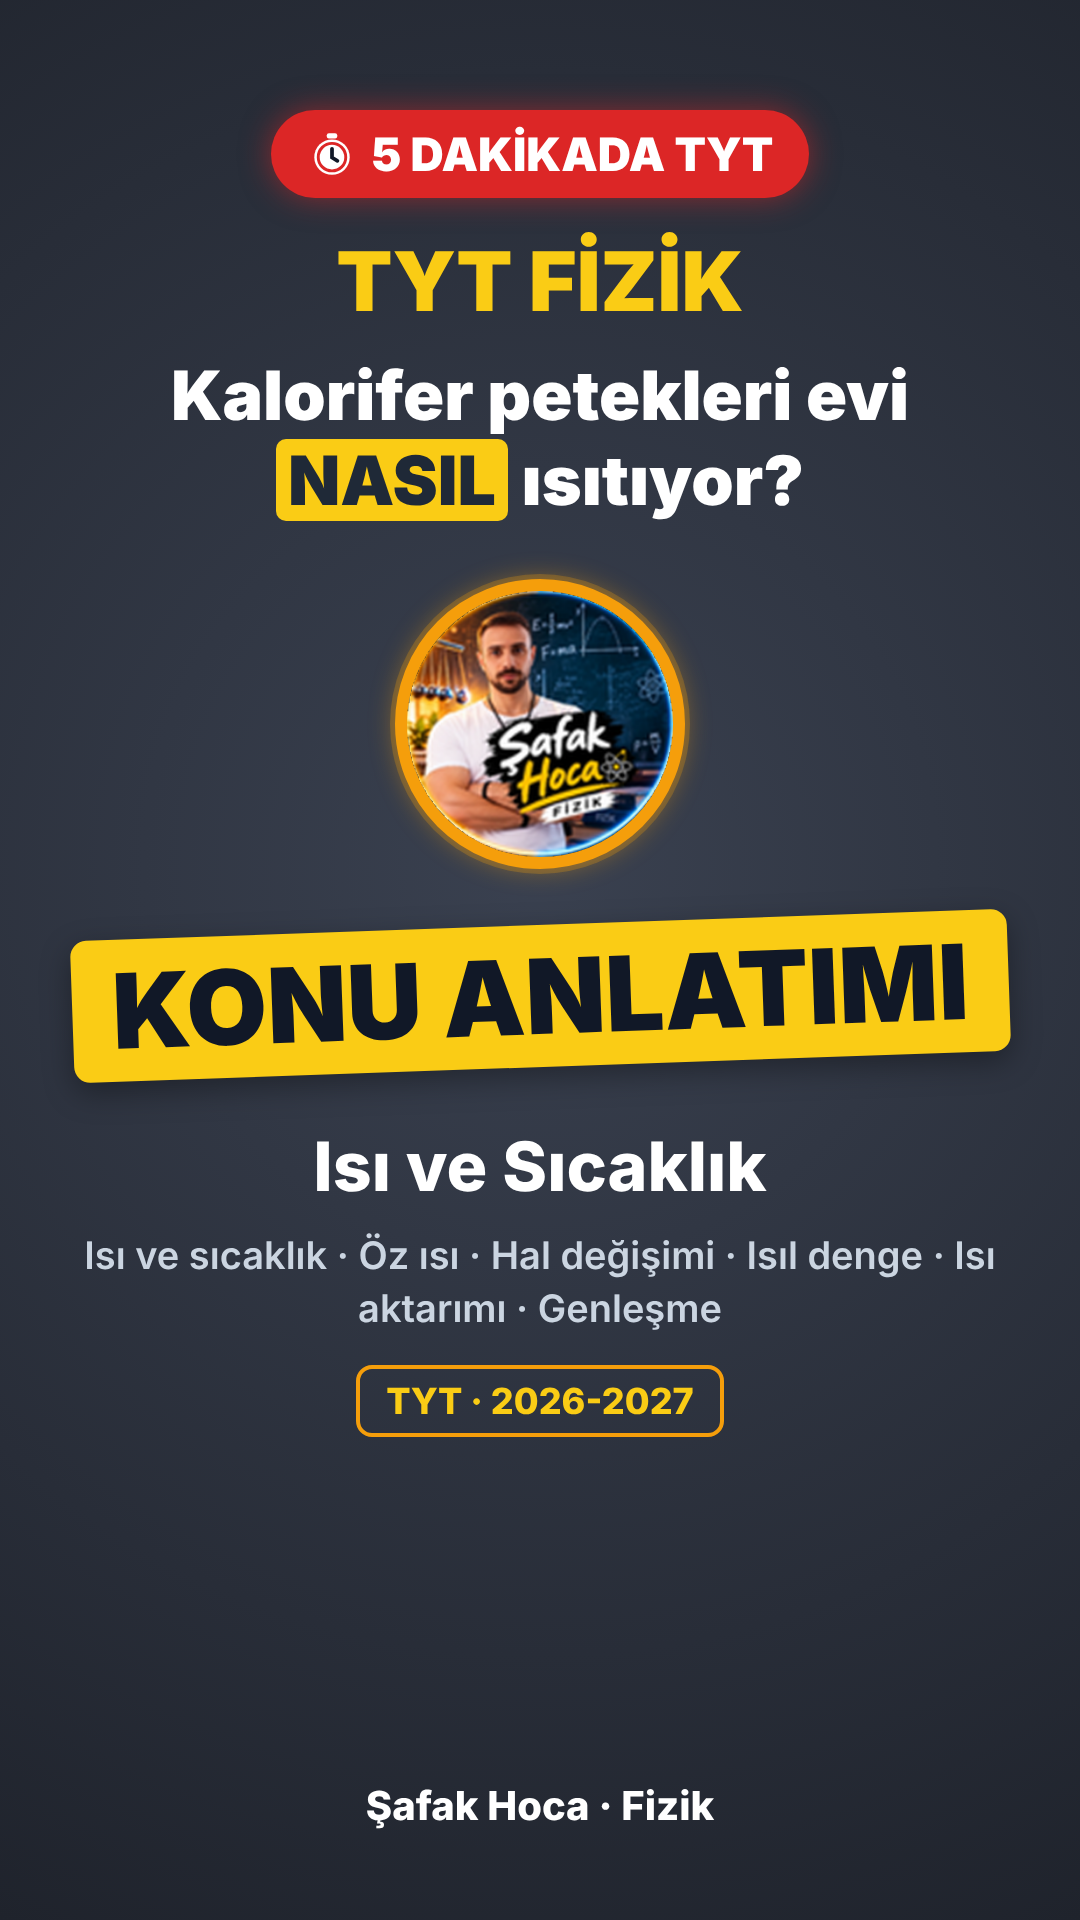
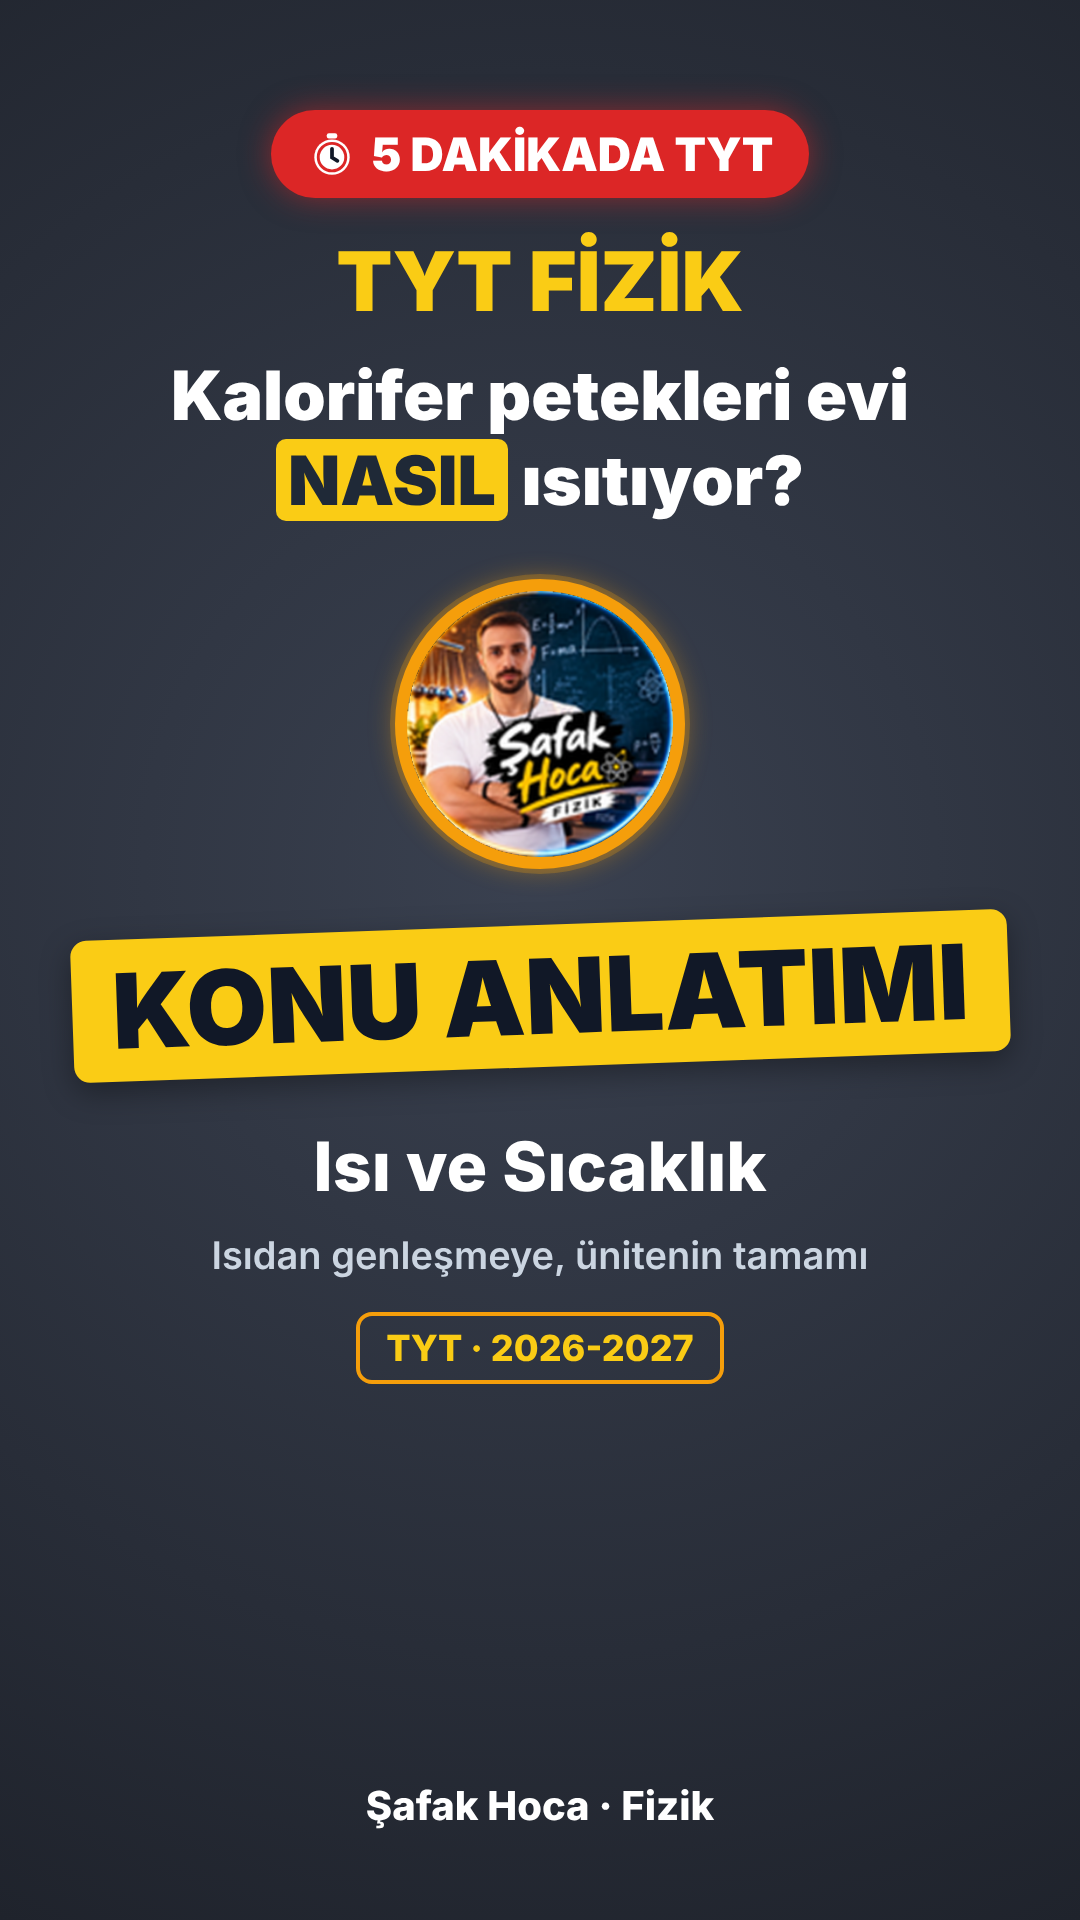
TYT Isı ve Sıcaklık: soru soru anlatım, MEB sırası, genleşme ile biter (8 bölüm)
Claude-Session: https://claude.ai/code/session_01Xc7NeVxuRXWQCx2wXCgMJt

diff --git a/tyt/konular/isi_sicaklik.html b/tyt/konular/isi_sicaklik.html
@@ -159,50 +159,75 @@
     <div class="logo-foto"></div>
     <div class="ka2">KONU ANLATIMI</div>
     <div class="konu2">Isı ve Sıcaklık</div>
-    <div class="ders2">Isı ve sıcaklık · Öz ısı · Hal değişimi · Isıl denge · Isı aktarımı · Genleşme</div>
+    <div class="ders2">Isıdan genleşmeye, ünitenin tamamı</div>
     <div class="kod2">TYT · 2026-2027</div>
   </div>
   <div class="kp2-imza">Şafak Hoca · Fizik</div>
 </section>
 
-<!-- ================= 3 · KONU 1: ISI, SICAKLIK, İÇ ENERJİ (0:13–0:48) ================= -->
-<section class="sahne" id="a1">
-  <div class="ust-kutu"><div class="u1">KONU 1 / 7</div><div class="u2">Isı, Sıcaklık ve İç Enerji</div></div>
+<!-- ================= 3 · BÖLÜM 1: Isı nedir? Sıcaklık nedir? Farkı ne? (0:13–0:48) ================= -->
+<section class="sahne" id="k1">
+  <div class="ust-kutu"><div class="u1 soru-u">Isı nedir? Sıcaklık nedir? Farkı ne?</div></div>
   <div class="pg">
     <div class="pg-bas"><div class="pb1">TYT FİZİK · KONU ANLATIMI</div><div class="pb2">ISI VE SICAKLIK · TYT · ŞAFAK HOCA</div><div class="logo-foto"></div></div>
-    <div class="pg-baslik">Isı ve Sıcaklık<span class="rozet">1/7</span></div>
+    <div class="pg-baslik">Isı ve Sıcaklık</div>
     <div class="pg-cizgi"></div>
-    <div class="pg-adim">KONU 1<span class="etk">ISI, SICAKLIK VE İÇ ENERJİ</span></div>
-    <p class="tanim"><span class="f">Sıcaklık</span>, taneciklerin <span class="v">ortalama</span> hareket enerjisinin göstergesidir. <span class="f">İç enerji</span>, taneciklerin <span class="v">toplam</span> enerjisidir. <span class="f">Isı</span>, sıcaklık farkı yüzünden <span class="v">aktarılan</span> enerjidir.</p>
-    <svg viewBox="0 0 980 300" width="100%" height="300">
-      <g font-weight="800" text-anchor="middle">
-        <rect x="20" y="20" width="440" height="230" rx="22" fill="#1f2430" stroke="#4b5563" stroke-width="3"/>
-        <text x="240" y="80" fill="#fff" font-size="40">Sıcaklık</text>
-        <text x="240" y="140" fill="#e5e7eb" font-size="32" font-weight="600">termometre ile</text>
-        <text x="240" y="190" fill="#e5e7eb" font-size="32" font-weight="600">°C · °F · K</text>
-        <text x="240" y="235" fill="#9ca3af" font-size="26" font-weight="600">(madde miktarına bağlı değil)</text>
-        <rect x="520" y="20" width="440" height="230" rx="22" fill="#1f2430" stroke="#4b5563" stroke-width="3"/>
-        <text x="740" y="80" fill="#fff" font-size="40">Isı (Q)</text>
-        <text x="740" y="140" fill="#e5e7eb" font-size="32" font-weight="600">kalorimetre kabı ile</text>
-        <text x="740" y="190" fill="#e5e7eb" font-size="32" font-weight="600">joule · kalori</text>
-        <text x="740" y="235" fill="#9ca3af" font-size="26" font-weight="600">(bir enerji türüdür)</text>
-      </g>
-    </svg>
-    <p class="not" style="margin-top:20px">Petek 70 °C, oda 22 °C → ısı petekten odaya akar <span class="ok">✓</span></p>
-    <p class="not">Isı hep sıcaktan soğuğa akar; sıcaklıklar eşitlenince durur</p>
+    <div class="sq">Sıcaklık nedir?</div>
+    <p class="tanim">Maddeyi oluşturan taneciklerin <span class="f">ortalama hareket enerjisinin</span> göstergesidir.</p>
+    <div class="sq">Isı nedir?</div>
+    <p class="tanim">Sıcaklık farkı yüzünden sıcaktan soğuğa <span class="f">aktarılan enerjidir</span>.</p>
+    <div class="sq">Farkı ne?</div>
+    <div class="kartlar">
+      <div class="kart"><b>Sıcaklık</b><span>ortalama enerji</span><i>madde miktarına bağlı değil</i></div>
+      <div class="kart"><b>İç enerji</b><span>toplam enerji</span><i>madde miktarı artınca artar</i></div>
+      <div class="kart"><b>Isı</b><span>aktarılan enerji</span><i>cisim ısı içermez</i></div>
+    </div>
+    <p class="not">Petek 70 °C, oda 22 °C → ısı petekten odaya akar <span class="ok">✓</span></p>
     <div class="tuzak"><b class="b">TYT TUZAĞI</b><br>Aynı sıcaklıktaki bir kova su, bir bardak sudan daha fazla <strong>iç enerjiye</strong> sahiptir ama "daha fazla ısısı var" demek <strong>yanlış</strong>: ısı yalnızca aktarılır.</div>
   </div>
 </section>
 
-<!-- ================= 4 · KONU 2: TERMOMETRELER (0:48–1:22) ================= -->
-<section class="sahne" id="a2">
-  <div class="ust-kutu"><div class="u1">KONU 2 / 7</div><div class="u2">Termometreler ve Ölçekler</div></div>
+<!-- ================= 4 · BÖLÜM 2: Isı neyle, sıcaklık neyle ölçülür? (0:48–1:15) ================= -->
+<section class="sahne" id="k2">
+  <div class="ust-kutu"><div class="u1 soru-u">Isı neyle, sıcaklık neyle ölçülür?</div></div>
   <div class="pg">
     <div class="pg-bas"><div class="pb1">TYT FİZİK · KONU ANLATIMI</div><div class="pb2">ISI VE SICAKLIK · TYT · ŞAFAK HOCA</div><div class="logo-foto"></div></div>
-    <div class="pg-baslik">Isı ve Sıcaklık<span class="rozet">2/7</span></div>
+    <div class="pg-baslik">Isı ve Sıcaklık</div>
     <div class="pg-cizgi"></div>
-    <div class="pg-adim">KONU 2<span class="etk">TERMOMETRELER VE ÖLÇEKLER</span></div>
-    <svg viewBox="0 0 980 540" width="100%" height="540">
+    <svg viewBox="0 0 980 470" width="100%" height="470">
+      <g font-family="Inter" font-weight="900" text-anchor="middle">
+        <rect x="205" y="40" width="50" height="300" rx="25" fill="#1f2430" stroke="#cbd5e1" stroke-width="4"/>
+        <circle cx="230" cy="365" r="42" fill="#ef4444" stroke="#cbd5e1" stroke-width="4"/>
+        <rect x="219" y="150" width="22" height="215" rx="11" fill="#ef4444"/>
+        <g stroke="#cbd5e1" stroke-width="3"><line x1="255" y1="80" x2="275" y2="80"/><line x1="255" y1="140" x2="275" y2="140"/><line x1="255" y1="200" x2="275" y2="200"/><line x1="255" y1="260" x2="275" y2="260"/></g>
+        <text x="230" y="445" fill="#fff" font-size="38">Termometre</text>
+        <rect x="610" y="120" width="250" height="250" rx="20" fill="#475569" stroke="#cbd5e1" stroke-width="4"/>
+        <rect x="640" y="150" width="190" height="200" rx="12" fill="#1f2430" stroke="#94a3b8" stroke-width="3"/>
+        <rect x="645" y="230" width="180" height="115" rx="10" fill="#60a5fa" opacity=".7"/>
+        <rect x="595" y="95" width="280" height="34" rx="10" fill="#94a3b8"/>
+        <line x1="700" y1="40" x2="700" y2="320" stroke="#e5e7eb" stroke-width="8" stroke-linecap="round"/><line x1="680" y1="320" x2="720" y2="320" stroke="#e5e7eb" stroke-width="8" stroke-linecap="round"/>
+        <rect x="775" y="30" width="22" height="260" rx="11" fill="#1f2430" stroke="#cbd5e1" stroke-width="3"/><circle cx="786" cy="300" r="16" fill="#ef4444"/>
+        <text x="735" y="445" fill="#fff" font-size="38">Kalorimetre kabı</text>
+      </g>
+    </svg>
+    <div class="kartlar" style="grid-template-columns:1fr 1fr">
+      <div class="kart"><b>Sıcaklık</b><span>termometreyle doğrudan</span><i>°C · °F · K</i></div>
+      <div class="kart"><b>Isı</b><span>kalorimetre kabında, sıcaklık değişiminden hesaplanır</span><i>joule (J) · kalori (cal)</i></div>
+    </div>
+    <p class="not">1 kalori ≈ 4,18 joule <span class="ok">✓</span></p>
+    <div class="tuzak"><b class="b">TYT TUZAĞI</b><br>Termometre <strong>ısıyı değil sıcaklığı</strong> ölçer. "Termometreyle ısı ölçülür" diyen şık yanlış.</div>
+  </div>
+</section>
+
+<!-- ================= 5 · BÖLÜM 3: Termometreler arasındaki fark ne? (1:15–1:50) ================= -->
+<section class="sahne" id="k3">
+  <div class="ust-kutu"><div class="u1 soru-u">Termometreler arasındaki fark ne?</div></div>
+  <div class="pg">
+    <div class="pg-bas"><div class="pb1">TYT FİZİK · KONU ANLATIMI</div><div class="pb2">ISI VE SICAKLIK · TYT · ŞAFAK HOCA</div><div class="logo-foto"></div></div>
+    <div class="pg-baslik">Isı ve Sıcaklık</div>
+    <div class="pg-cizgi"></div>
+    <p class="tanim">Termometre, ısınınca <span class="f">genleşen bir sıvıyla</span> çalışır. Ölçekler, buzun erime ve suyun kaynama noktasına <span class="v">farklı sayılar</span> verir.</p>
+    <svg viewBox="0 0 980 540" width="100%" height="430">
       <g font-weight="900" text-anchor="middle">
         <defs><g id="trm">
           <rect x="-28" y="60" width="56" height="380" rx="28" fill="#1f2430" stroke="#cbd5e1" stroke-width="4"/>
@@ -228,14 +253,13 @@
   </div>
 </section>
 
-<!-- ================= 5 · KONU 3: ÖZ ISI (1:22–1:57) ================= -->
-<section class="sahne" id="a3">
-  <div class="ust-kutu"><div class="u1">KONU 3 / 7</div><div class="u2">Öz Isı ve Isı Sığası</div></div>
+<!-- ================= 6 · BÖLÜM 4: Aynı ısıyı alan maddeler neden farklı ısınır? (1:50–2:25) ================= -->
+<section class="sahne" id="k4">
+  <div class="ust-kutu"><div class="u1 soru-u">Aynı ısıyı alan maddeler neden farklı ısınır?</div></div>
   <div class="pg">
     <div class="pg-bas"><div class="pb1">TYT FİZİK · KONU ANLATIMI</div><div class="pb2">ISI VE SICAKLIK · TYT · ŞAFAK HOCA</div><div class="logo-foto"></div></div>
-    <div class="pg-baslik">Isı ve Sıcaklık<span class="rozet">3/7</span></div>
+    <div class="pg-baslik">Isı ve Sıcaklık</div>
     <div class="pg-cizgi"></div>
-    <div class="pg-adim">KONU 3<span class="etk">ÖZ ISI VE ISI SIĞASI</span></div>
     <div class="formul">Q = m · c · ΔT<small>c: öz ısı · m·c: ısı sığası</small></div>
     <p class="tanim"><span class="f">Öz ısı</span>, 1 gram maddenin sıcaklığını 1 °C artırmak için gereken ısıdır. <span class="v">Ayırt edicidir</span>, kütleye bağlı değildir.</p>
     <svg viewBox="0 0 980 300" width="100%" height="300">
@@ -255,15 +279,15 @@
   </div>
 </section>
 
-<!-- ================= 6 · KONU 4: HAL DEĞİŞİMİ (1:57–2:31) ================= -->
-<section class="sahne" id="a4">
-  <div class="ust-kutu"><div class="u1">KONU 4 / 7</div><div class="u2">Hal Değişimi</div></div>
+<!-- ================= 7 · BÖLÜM 5: Hal değişimi nasıl olur? (2:25–3:00) ================= -->
+<section class="sahne" id="k5">
+  <div class="ust-kutu"><div class="u1 soru-u">Hal değişimi nasıl olur?</div></div>
   <div class="pg">
     <div class="pg-bas"><div class="pb1">TYT FİZİK · KONU ANLATIMI</div><div class="pb2">ISI VE SICAKLIK · TYT · ŞAFAK HOCA</div><div class="logo-foto"></div></div>
-    <div class="pg-baslik">Isı ve Sıcaklık<span class="rozet">4/7</span></div>
+    <div class="pg-baslik">Isı ve Sıcaklık</div>
     <div class="pg-cizgi"></div>
-    <div class="pg-adim">KONU 4<span class="etk">HAL DEĞİŞİMİ</span></div>
-    <svg viewBox="0 0 980 560" width="100%" height="560">
+    <p class="tanim">Isı alan madde <span class="f">erir, buharlaşır</span>; ısı veren madde <span class="v">donar, yoğuşur</span>. Saf maddede hal değişirken <span class="f">sıcaklık sabit kalır</span>.</p>
+    <svg viewBox="0 0 980 560" width="100%" height="470">
       <defs><marker id="okax" viewBox="0 0 10 10" refX="8" refY="5" markerWidth="6" markerHeight="6" orient="auto"><path d="M0 0L10 5L0 10z" fill="#cbd5e1"/></marker></defs>
       <line x1="90" y1="500" x2="950" y2="500" class="ax" marker-end="url(#okax)"/>
       <line x1="90" y1="520" x2="90" y2="30" class="ax" marker-end="url(#okax)"/>
@@ -288,14 +312,13 @@
   </div>
 </section>
 
-<!-- ================= 7 · KONU 5: ISIL DENGE (2:31–3:06) ================= -->
-<section class="sahne" id="a5">
-  <div class="ust-kutu"><div class="u1">KONU 5 / 7</div><div class="u2">Isıl Denge</div></div>
+<!-- ================= 8 · BÖLÜM 6: Isıl denge nedir? (3:00–3:30) ================= -->
+<section class="sahne" id="k6">
+  <div class="ust-kutu"><div class="u1 soru-u">Isıl denge nedir?</div></div>
   <div class="pg">
     <div class="pg-bas"><div class="pb1">TYT FİZİK · KONU ANLATIMI</div><div class="pb2">ISI VE SICAKLIK · TYT · ŞAFAK HOCA</div><div class="logo-foto"></div></div>
-    <div class="pg-baslik">Isı ve Sıcaklık<span class="rozet">5/7</span></div>
+    <div class="pg-baslik">Isı ve Sıcaklık</div>
     <div class="pg-cizgi"></div>
-    <div class="pg-adim">KONU 5<span class="etk">ISIL DENGE</span></div>
     <p class="tanim">Sıcak cisim ısı <span class="f">verir</span>, soğuk cisim ısı <span class="f">alır</span>. Sıcaklıklar eşitlenince aktarım durur.</p>
     <svg viewBox="0 0 980 360" width="100%" height="360">
       <g font-weight="900" text-anchor="middle">
@@ -318,14 +341,13 @@
   </div>
 </section>
 
-<!-- ================= 8 · KONU 6: ISI AKTARIM YOLLARI (3:06–3:40) ================= -->
-<section class="sahne" id="a6">
-  <div class="ust-kutu"><div class="u1">KONU 6 / 7</div><div class="u2">Isı Aktarım Yolları</div></div>
+<!-- ================= 9 · BÖLÜM 7: Isı nasıl yayılır? (3:30–4:05) ================= -->
+<section class="sahne" id="k7">
+  <div class="ust-kutu"><div class="u1 soru-u">Isı nasıl yayılır?</div></div>
   <div class="pg">
     <div class="pg-bas"><div class="pb1">TYT FİZİK · KONU ANLATIMI</div><div class="pb2">ISI VE SICAKLIK · TYT · ŞAFAK HOCA</div><div class="logo-foto"></div></div>
-    <div class="pg-baslik">Isı ve Sıcaklık<span class="rozet">6/7</span></div>
+    <div class="pg-baslik">Isı ve Sıcaklık</div>
     <div class="pg-cizgi"></div>
-    <div class="pg-adim">KONU 6<span class="etk">ISI AKTARIM YOLLARI</span></div>
     <svg viewBox="0 0 980 560" width="100%" height="440">
       <defs>
         <marker id="o1" viewBox="0 0 10 10" refX="7" refY="5" markerWidth="4" markerHeight="4" orient="auto"><path d="M0 0L10 5L0 10z" fill="#fb923c"/></marker>
@@ -358,23 +380,22 @@
       <li><b>İletim:</b> tanecikten taneciğe, dokunarak (katılarda)</li>
       <li><b>Konveksiyon:</b> sıcak akışkan yükselir, soğuğu iner</li>
       <li><b>Işıma:</b> ışınla, madde gerekmeden (Güneş)</li>
+      <li><b>Yalıtım:</b> çift cam, mont, termos aktarımı yavaşlatır</li>
     </ul>
-    <p class="not" style="margin-top:14px">Kombideki ısıyı peteğe su taşır, petekten odaya hava taşır → ikisi de konveksiyon <span class="ok">✓</span></p>
     <div class="tuzak"><b class="b">TYT TUZAĞI</b><br>Konveksiyon <strong>yalnızca akışkanlarda</strong> (sıvı, gaz) olur. Işıma için madde <strong>gerekmez</strong>; boşlukta da olur.</div>
   </div>
 </section>
 
-<!-- ================= 9 · KONU 7: GENLEŞME (3:40–4:15) ================= -->
-<section class="sahne" id="a7">
-  <div class="ust-kutu"><div class="u1">KONU 7 / 7</div><div class="u2">Genleşme</div></div>
+<!-- ================= 10 · BÖLÜM 8: Genleşme nedir? Isıyla, sıcaklıkla ilişkisi ne? (4:05–4:45) ================= -->
+<section class="sahne" id="k8">
+  <div class="ust-kutu"><div class="u1 soru-u">Genleşme nedir? Isıyla, sıcaklıkla ilişkisi ne?</div></div>
   <div class="pg">
     <div class="pg-bas"><div class="pb1">TYT FİZİK · KONU ANLATIMI</div><div class="pb2">ISI VE SICAKLIK · TYT · ŞAFAK HOCA</div><div class="logo-foto"></div></div>
-    <div class="pg-baslik">Isı ve Sıcaklık<span class="rozet">7/7</span></div>
+    <div class="pg-baslik">Isı ve Sıcaklık</div>
     <div class="pg-cizgi"></div>
-    <div class="pg-adim">KONU 7<span class="etk">GENLEŞME</span></div>
     <p class="tanim">Isınan maddenin tanecikleri daha çok titreşir, aralarındaki uzaklık artar: madde <span class="f">genleşir</span>. Soğuyunca <span class="v">büzülür</span>.</p>
     <div class="formul">ΔL = L₀ · λ · ΔT<small>λ: boyca uzama katsayısı (ayırt edici)</small></div>
-    <svg viewBox="0 0 980 230" width="100%" height="230">
+    <svg viewBox="0 0 980 230" width="100%" height="200">
       <g font-weight="900">
         <rect x="40" y="30" width="640" height="56" rx="10" fill="#94a3b8"/>
         <text x="360" y="70" fill="#1f2937" font-size="32" text-anchor="middle">L₀ (soğuk)</text>
@@ -384,38 +405,12 @@
         <text x="740" y="128" fill="#fff" font-size="36" text-anchor="middle">ΔL</text>
       </g>
     </svg>
-    <p class="not">Kalorifer boruları ısınınca uzar → tesisatta esnek dirsekler var <span class="ok">✓</span></p>
+    <div class="zincir"><span>ısı alır</span><em>→</em><span>sıcaklık ↑</span><em>→</em><span>tanecikler uzaklaşır</span><em>→</em><span>genleşir</span></div>
     <div class="tuzak"><b class="b">TYT TUZAĞI</b><br>Su <strong>0 °C → 4 °C</strong> arasında ısıtılınca hacmi <strong>küçülür</strong>; özkütlesi 4 °C'de en büyüktür. Delikli levha ısınınca <strong>delik de büyür</strong>.</div>
   </div>
 </section>
 
-<!-- ================= 10 · TYT SORUSU (4:15–4:50) ================= -->
-<section class="sahne" id="soru">
-  <div class="ust-kutu"><div class="u1">TYT SORUSU</div><div class="u2">Isı ve Sıcaklık</div></div>
-  <div class="pg">
-    <div class="pg-bas"><div class="pb1">TYT FİZİK · KONU ANLATIMI</div><div class="pb2">ISI VE SICAKLIK · TYT · ŞAFAK HOCA</div><div class="logo-foto"></div></div>
-    <div class="pg-baslik">Isı ve Sıcaklık</div>
-    <div class="pg-cizgi"></div>
-    <div class="pg-adim">SORU<span class="etk">TYT TARZI SORU</span></div>
-    <p class="tanim" style="font-size:36px">Kütleleri <b style="color:#fff">2m</b> ve <b style="color:#fff">m</b> olan X ve Y sıvıları özdeş ısıtıcılarla eşit süre ısıtılıyor. Sıcaklıkları <b style="color:#fff">10 °C</b> ve <b style="color:#fff">40 °C</b> artıyor.<br><span class="f">Öz ısılar oranı c<sub>X</sub> / c<sub>Y</sub> kaçtır?</span></p>
-    <svg viewBox="0 0 980 230" width="100%" height="230">
-      <g font-family="Caveat" font-weight="700" fill="var(--kalem)" font-size="50">
-        <text x="20" y="60">Q eşit → 2m · cₓ · 10 = m · cᵧ · 40</text>
-        <text x="20" y="130">20 cₓ = 40 cᵧ</text>
-        <text x="20" y="200">cₓ / cᵧ = 2</text>
-      </g>
-    </svg>
-    <div class="sik">
-      <div><b>A)</b> 1/4</div>
-      <div><b>B)</b> 1/2</div>
-      <div><b>C)</b> 1</div>
-      <div class="dogru"><b>D)</b> 2 &nbsp;✓</div>
-      <div><b>E)</b> 4</div>
-    </div>
-  </div>
-</section>
-
-<!-- ================= 11 · KAPANIŞ (4:50–5:00) ================= -->
+<!-- ================= 11 · KAPANIŞ (4:45–4:55) ================= -->
 <section class="sahne" id="kapanis">
   <div class="kp" style="padding-top:330px">
     <div class="pill">TYT FİZİK</div>
@@ -423,7 +418,7 @@
     <div class="alt2" style="font-size:44px;margin-top:40px">Isı ve Sıcaklık ✓</div>
     <ul class="liste" style="text-align:left;margin-top:70px;font-size:40px">
       <li>Isı aktarılır, sıcaklık ölçülür</li><li>Q = m·c·ΔT · Q = m·L</li>
-      <li>Verilen ısı = alınan ısı</li><li>İletim · konveksiyon · ışıma</li><li>Genleşme: ΔL = L₀·λ·ΔT</li>
+      <li>Verilen ısı = alınan ısı</li><li>İletim · konveksiyon · ışıma</li><li>Isı → sıcaklık ↑ → genleşme</li>
     </ul>
     <div class="alt2" style="margin-top:60px">Sıradaki TYT konusu için takipte kal</div>
   </div>

diff --git a/tyt/ortak.css b/tyt/ortak.css
@@ -134,3 +134,15 @@ svg text{font-family:Inter}
 .pg-adim{font:700 38px "DejaVu Serif",Georgia,serif;color:#fff;margin-bottom:26px}
 .pg-adim .etk{display:inline-block;vertical-align:middle;font:900 26px Inter;background:#dc2626;color:#fff;padding:5px 14px;border-radius:6px;margin-left:12px;letter-spacing:.5px}
 .ust-kutu ~ .pg .tanim{font-family:"DejaVu Serif",Georgia,serif;font-size:38px}
+
+/* --- soru soru anlatım: üst kutuda bölümün sorusu, sayfada alt sorular --- */
+.ust-kutu .u1.soru-u{font:900 46px/1.15 Inter;text-align:center;padding:0 30px}
+.sq{font:700 40px "DejaVu Serif",Georgia,serif;color:#fff;border-left:8px solid #dc2626;padding-left:16px;margin:8px 0 14px}
+.kartlar{display:grid;grid-template-columns:repeat(3,1fr);gap:16px;margin:6px 0 20px}
+.kart{background:#1f2430;border:3px solid #4b5563;border-radius:18px;padding:18px 14px;text-align:center}
+.kart b{display:block;font:900 34px Inter;color:#fff;margin-bottom:8px}
+.kart span{display:block;font:600 27px/1.35 Inter;color:#e5e7eb}
+.kart i{display:block;font:600 23px/1.3 Inter;color:#9ca3af;font-style:normal;margin-top:8px}
+.zincir{display:flex;flex-wrap:wrap;gap:10px;align-items:center;justify-content:center;font:800 32px Inter;color:#fff;margin:10px 0 16px}
+.zincir span{background:#1f2430;border:3px solid var(--amber);border-radius:14px;padding:10px 16px}
+.zincir em{font-style:normal;color:var(--sari);font-size:38px}
